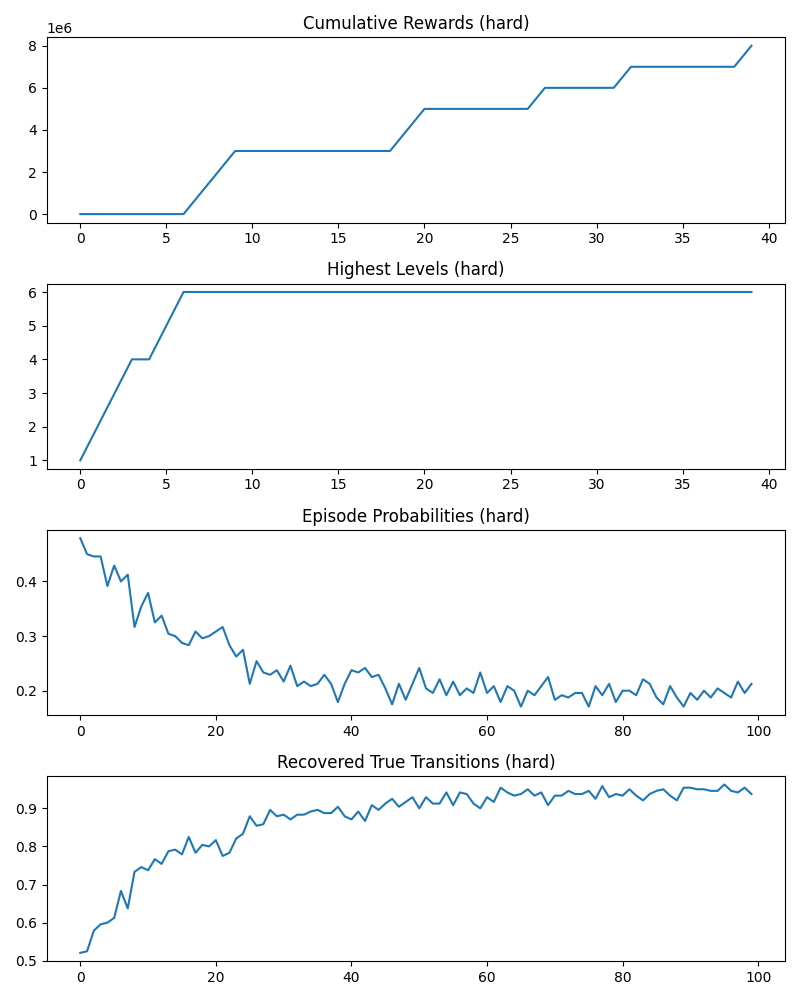
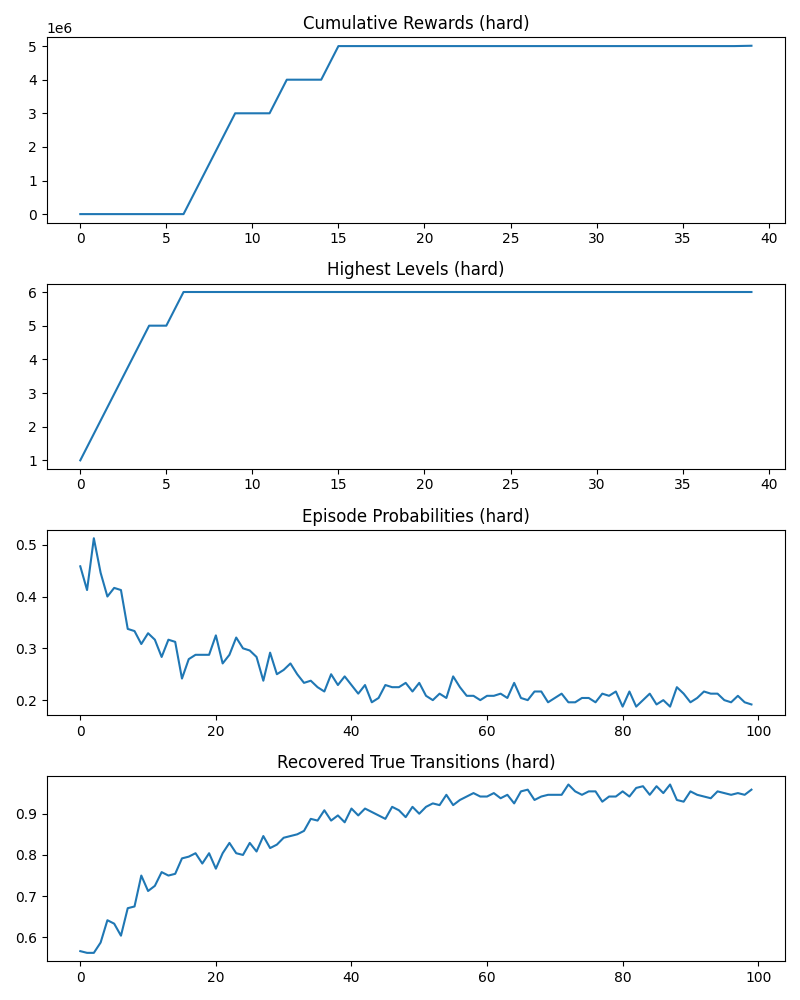
re-run pcfg model

diff --git a/exp2/python/learner.py b/exp2/python/learner.py
@@ -3,9 +3,6 @@
 import numpy as np
 import pandas as pd
 import matplotlib.pyplot as plt
-from multiprocessing import Pool
-import time
-import traceback
 
 # %%
 # Set up task and environment
@@ -35,6 +32,9 @@ def task_func(task, pair):
         return med_task(pair)
     elif task == 'hard':
         return hard_task(pair)
+    else:
+        print('no matching condition!')
+        return False
 
 # %%
 # Base PSRL agent
@@ -191,11 +191,6 @@ def update_states(task, action, action_left, state_objs, state_levels, regenerat
 
 # %%
 # load prior beliefs
-def softmax(x, tau=1.0):
-    x = np.array(x) / tau  # Scale by temperature
-    exp_x = np.exp(x - np.max(x))  # Subtract max for numerical stability
-    return exp_x / exp_x.sum()
-
 def run_pcfg_condition(condition, num_episodes=10, num_actions=40):
     print(f"Running pcfg condition: {condition}")
 
@@ -224,7 +219,7 @@ def run_pcfg_condition(condition, num_episodes=10, num_actions=40):
         # Sample from the prior
         counts = prior_mdps['count']
         norm_probs = counts / counts.sum()
-        scaled_probs = norm_probs #softmax(norm_probs, tau=0.01)
+        scaled_probs = norm_probs
 
         prior_mdp_index = np.random.choice(prior_mdps.index, size=1, p=scaled_probs)[0]
         sampled_transitions = prior_mdps.loc[prior_mdp_index][pair_columns].to_numpy()
@@ -305,14 +300,14 @@ def run_pcfg_condition(condition, num_episodes=10, num_actions=40):
     return condition, cum_rewards, highst_levels, epi_probs, recover_rate
 
 # %%
-def run_condition(condition, num_episodes=100, num_actions=40):
-    print(f"Running base condition: {condition}")
+def run_condition(condition, num_episodes=100, num_actions=40, seed=0):
+    print(f"Running base condition: {condition}, with seed {seed}")
+    np.random.seed(seed)
 
     # Initialize variables
-    task = condition
-    cum_rewards = np.zeros((num_episodes, num_actions))
-    highst_levels = np.zeros((num_episodes, num_actions))
-    # actions = np.full((num_episodes, num_actions), None)
+    cum_rewards = np.zeros(num_episodes * num_actions)
+    highst_levels = np.zeros(num_episodes * num_actions)
+    # actions = np.full(num_episodes * num_actions, None)
     epi_probs = np.zeros(num_episodes)
     recover_rate = np.zeros(num_episodes)
 
@@ -321,7 +316,7 @@ def run_condition(condition, num_episodes=100, num_actions=40):
     prior_betas = np.full(len(norm_pairs), 0.001)
 
     # Prep for ground truth measure
-    true_transitions =  np.array([task_func(task, pair) for pair in norm_pairs]).astype(int)
+    true_transitions = np.array([task_func(condition, pair) for pair in norm_pairs]).astype(int)
 
     # Run base PSRL agent
     for episode in range(num_episodes):
@@ -364,7 +359,7 @@ def run_condition(condition, num_episodes=100, num_actions=40):
                     pair_idx = norm_pairs.index((norm_m, norm_n))
                     
 
-                    if task_func(task, (norm_m, norm_n)):
+                    if task_func(condition, (norm_m, norm_n)):
                         prior_alphas[pair_idx] += 1
                     else:
                         prior_betas[pair_idx] += 1
@@ -417,6 +412,58 @@ condition, cum_rewards, highst_levels, epi_probs, recover_rate = run_pcfg_condit
 plot_results(condition, 'pcfg', cum_rewards, highst_levels, epi_probs, recover_rate)
 
 
+# %%
+conditions = ['easy', 'med', 'hard']
+n_episodes = 10
+n_actions = 3
+
+all_recover_rates = []
+recover_rates_df = pd.DataFrame(columns=['condition', 'agent', 'index', 'mean', 'sd', 'se', 'max', 'min'])
+
+def get_base_recover_rates(cond, num_episodes=n_episodes, num_actions=n_actions):
+    condition, cum_rewards, highst_levels, epi_probs, recover_rate = run_condition(cond, num_episodes, num_actions)
+    return recover_rate
+
+def get_pcfg_recover_rates(cond, um_episodes=n_episodes, num_actions=n_actions):
+    condition, cum_rewards, highst_levels, epi_probs, recover_rate = run_pcfg_condition(cond, num_episodes, num_actions)
+    return recover_rate
+
+
+# %%
+get_base_recover_rates('easy')
+condition, cum_rewards, highst_levels, epi_probs, recover_rate = run_condition('easy', 3, 40)
+
+
+# %%
+
+for agent in ['base', 'pcfg']:
+    for condition in conditions:
+        runs = []
+
+        for i in range(10):
+            np.random.seed(i)
+            if agent == 'base':
+                runs.append(get_base_recover_rates(condition))
+            else:
+                runs.append(get_pcfg_recover_rates(condition))
+    
+        runs = np.array(runs)
+
+    condition_stats = pd.DataFrame({
+        'condition': condition,
+        'agent': agent,
+        'index': range(num_actions),
+        'mean': np.mean(runs, axis=0),
+        'sd': np.std(runs, axis=0, ddof=1),
+        'se': np.std(runs, axis=0, ddof=1) / np.sqrt(10),
+        'max': np.max(runs, axis=0),
+        'min': np.min(runs, axis=0)
+    })
+    
+    all_recover_rates.append(condition_stats)
+
+# Combine all
+recover_rates_df = pd.concat(all_recover_rates, ignore_index=True)
 
 # %%
 newrun = False
@@ -434,9 +481,9 @@ for agent in agents_to_run:
         for attempt in range(max_retries):
             try:
                 if agent == 'base':
-                    results = run_condition(condition, episodes)
+                    results = run_condition(condition)
                 elif agent == 'pcfg':
-                    results = run_pcfg_condition(condition, episodes)
+                    results = run_pcfg_condition(condition)
                 
                 all_results[agent][condition] = {
                     'condition': results[0],
